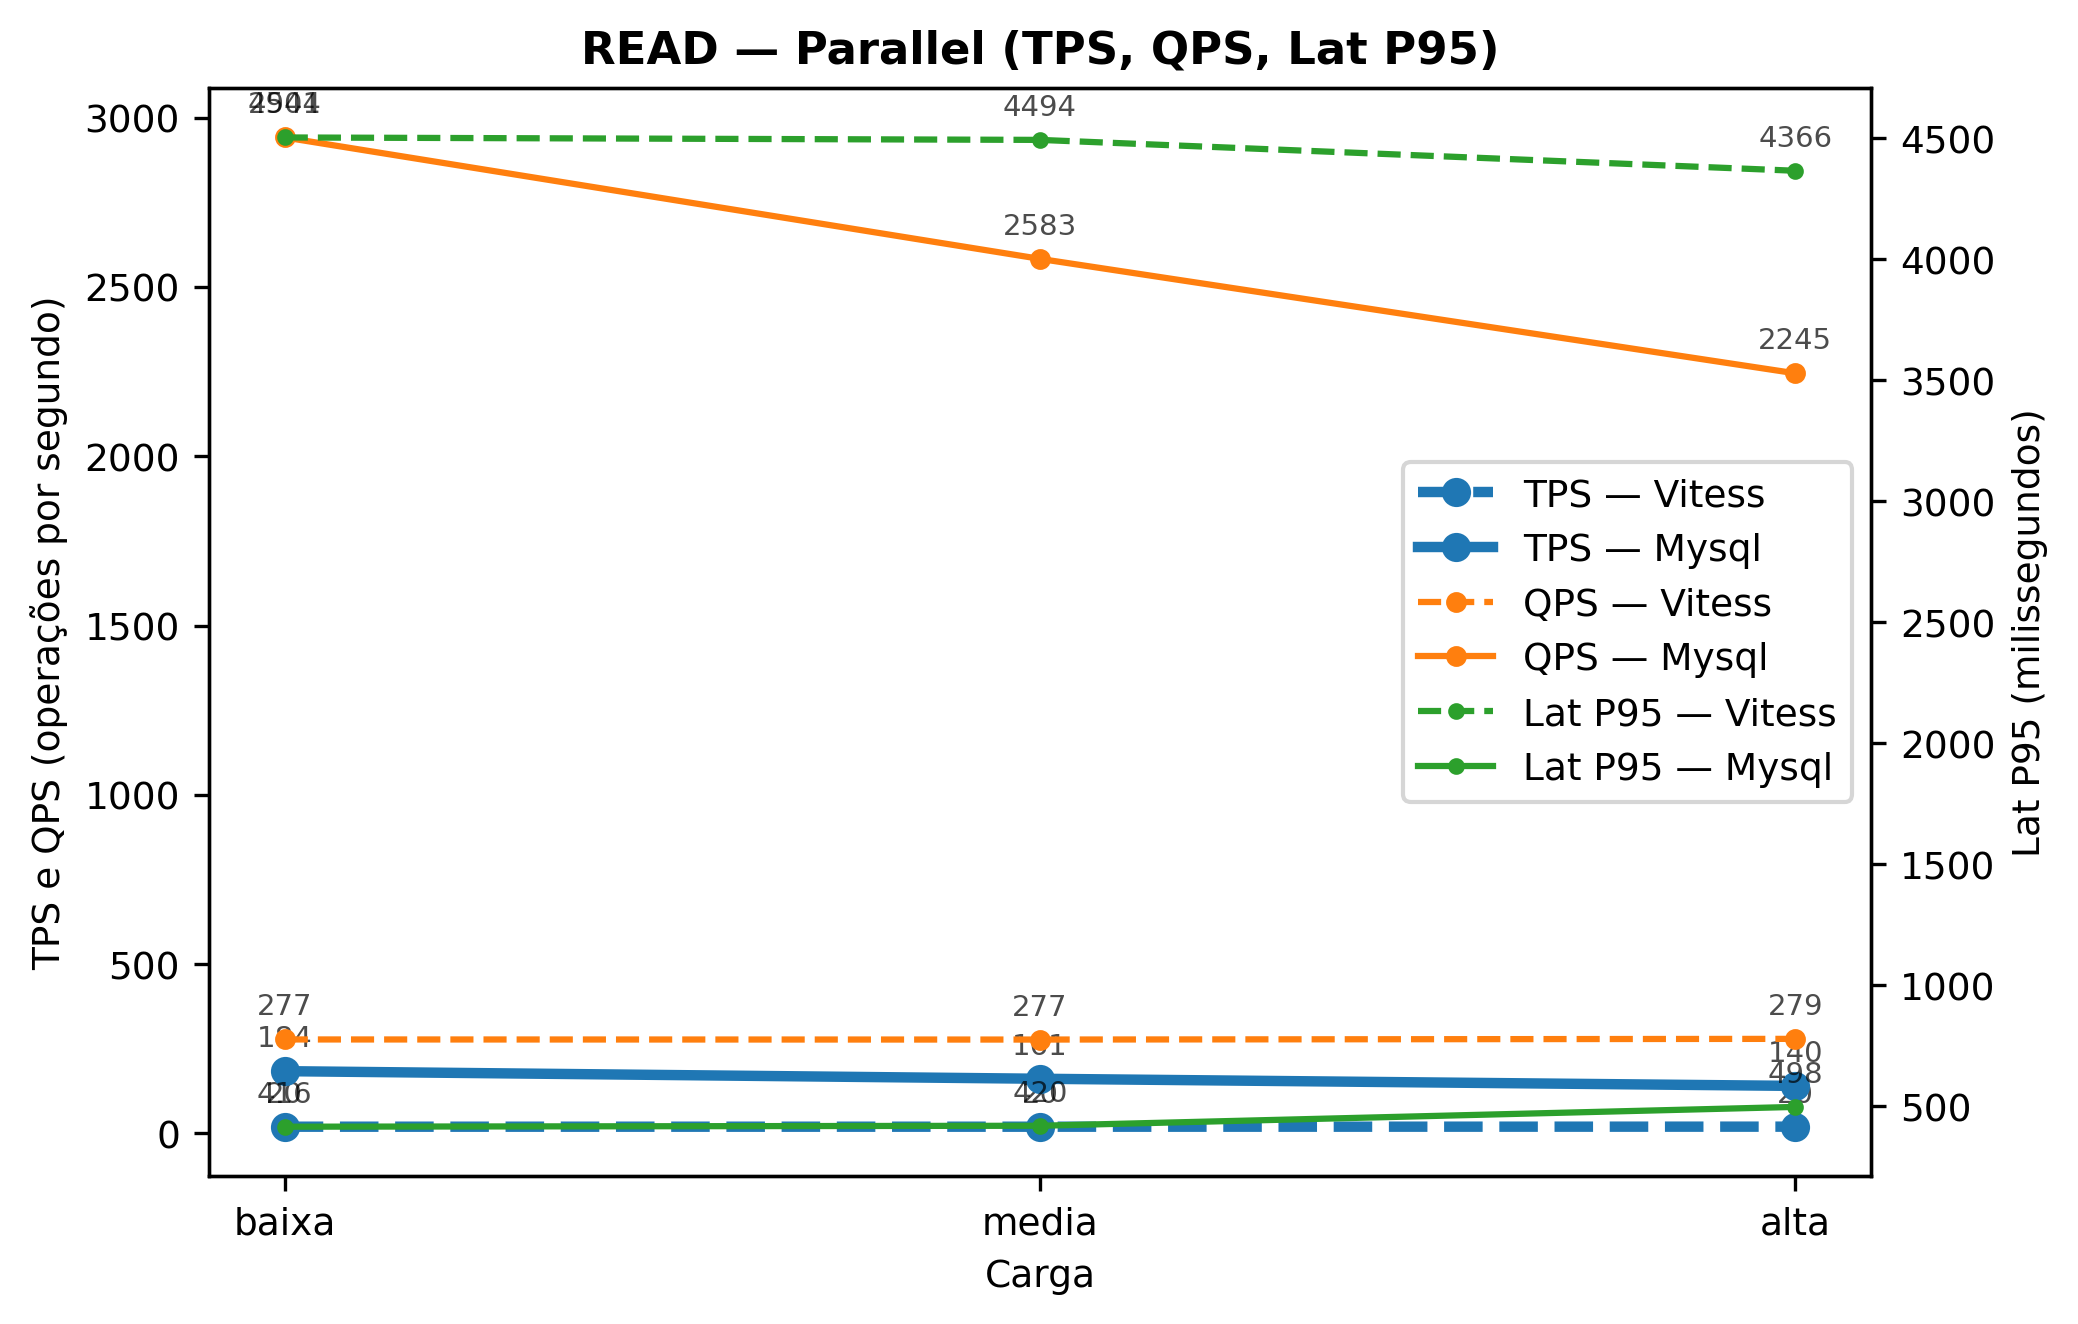
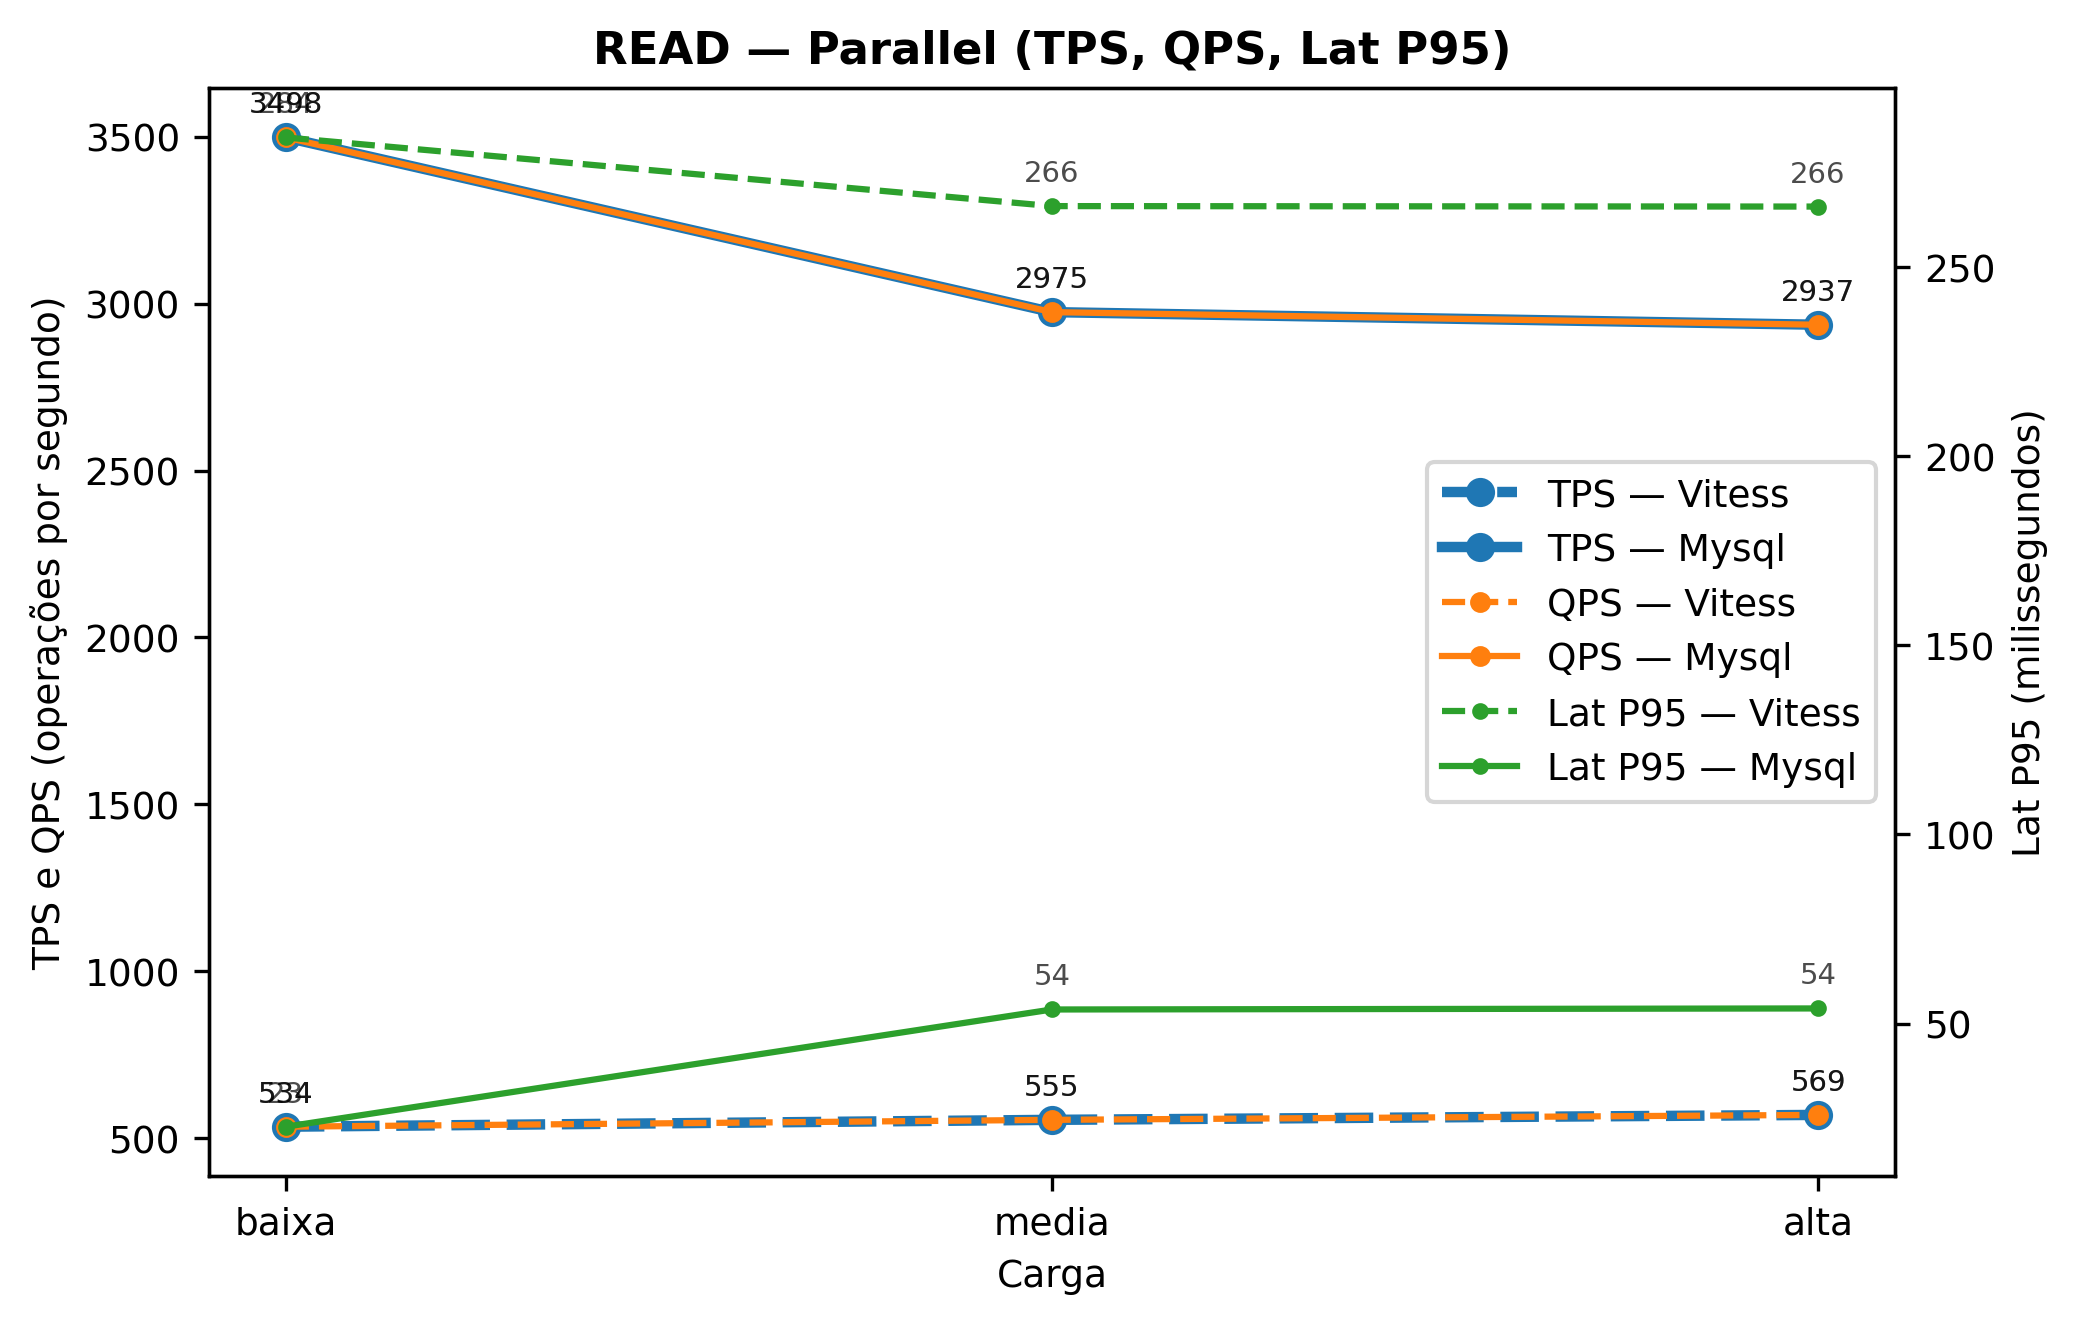
feat: Add 'big' scale, update aggregated results, and reorganize generated figures.

diff --git a/graphics/src/io_utils.py b/graphics/src/io_utils.py
@@ -2,7 +2,7 @@ from pathlib import Path
 import pandas as pd
 import numpy as np
 
-SCALES = ["baixa", "media", "alta"]
+SCALES = ["baixa", "media", "alta", "big"]
 METRIC_COLS = ["tps","qps","lat_min","lat_avg","lat_max","lat_95th"]
 
 def _clean_df(df: pd.DataFrame) -> pd.DataFrame:
